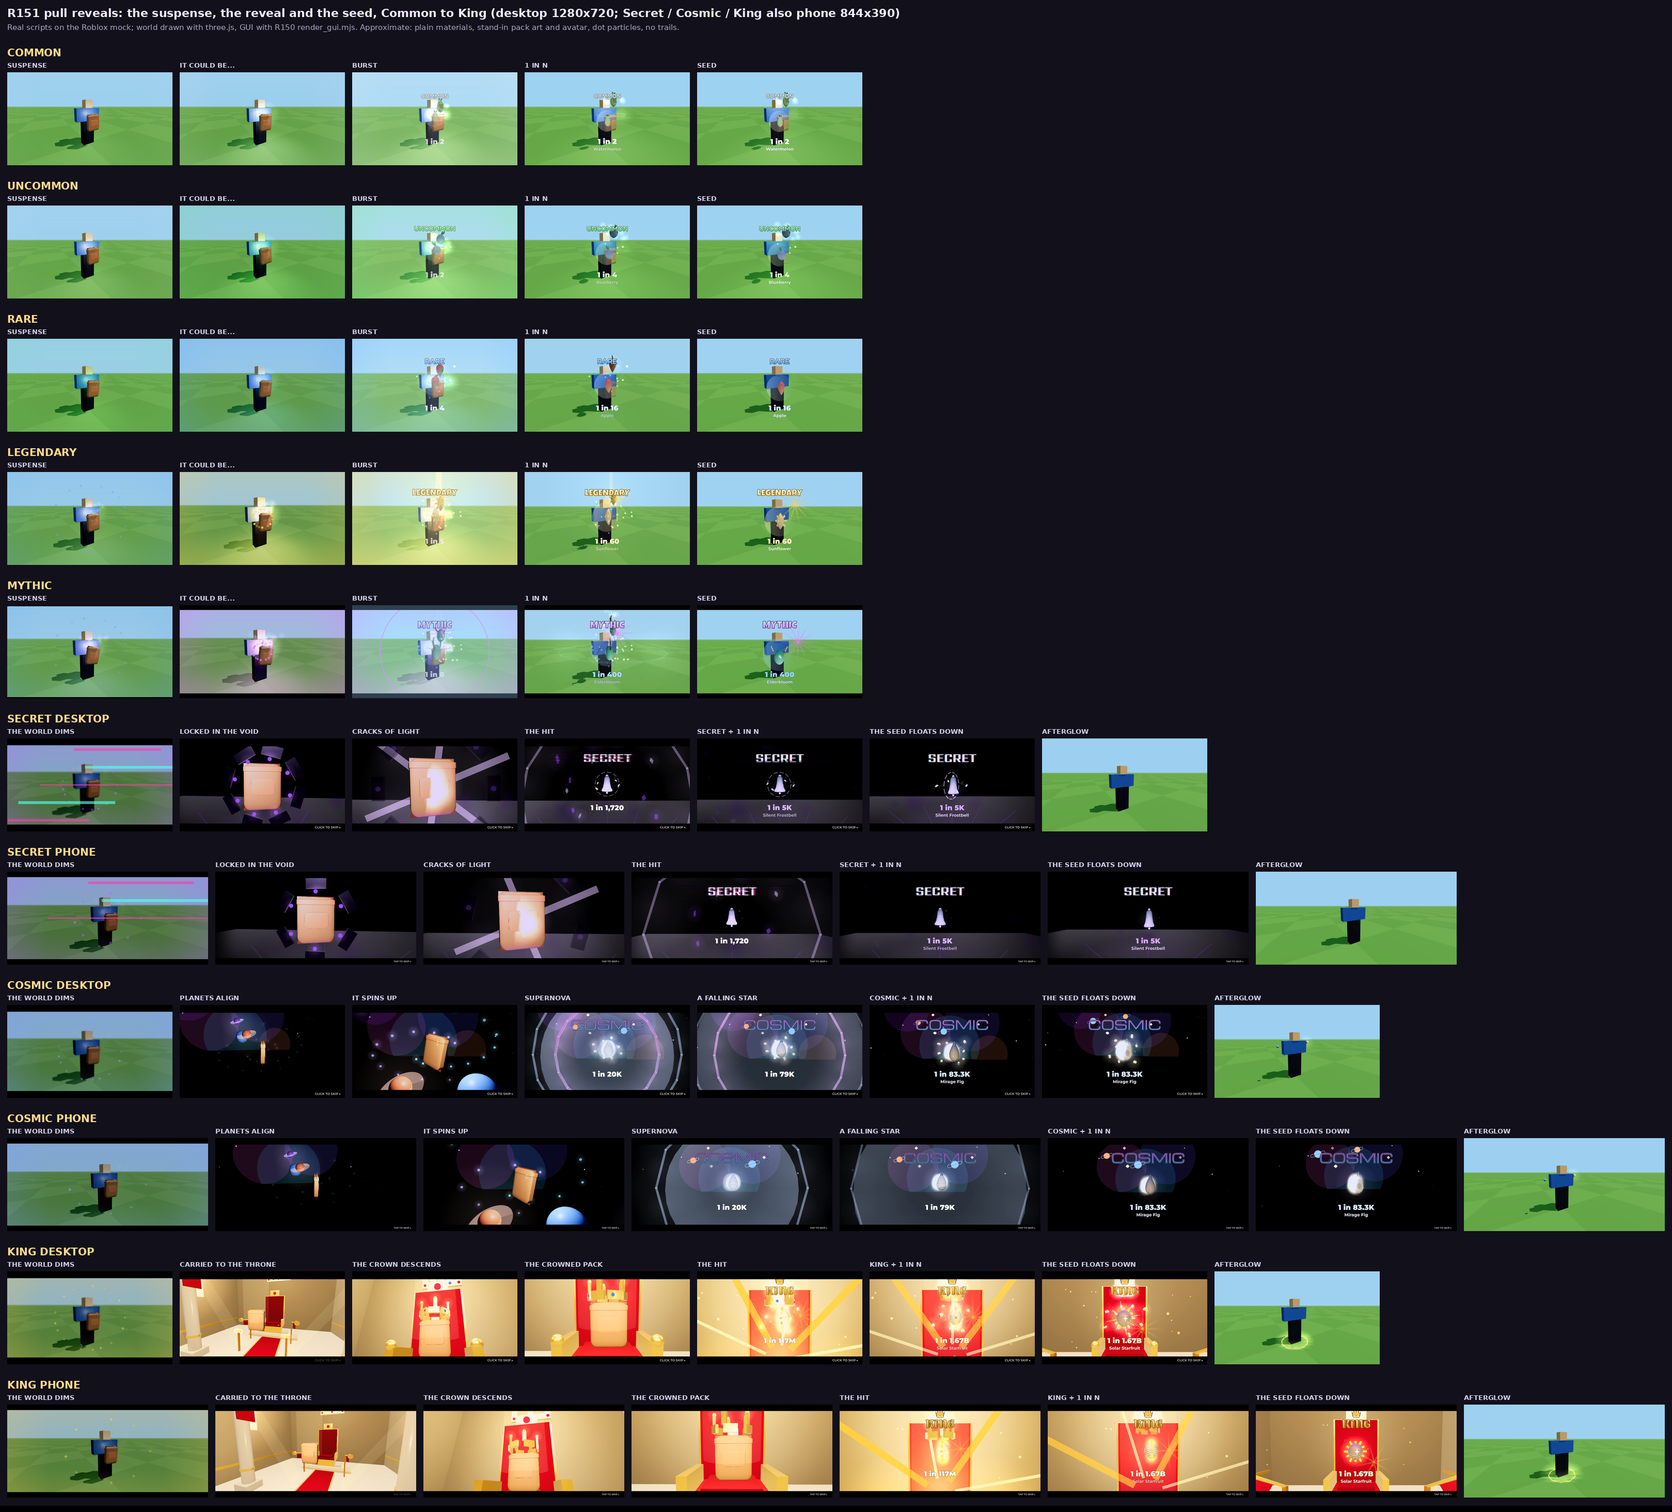
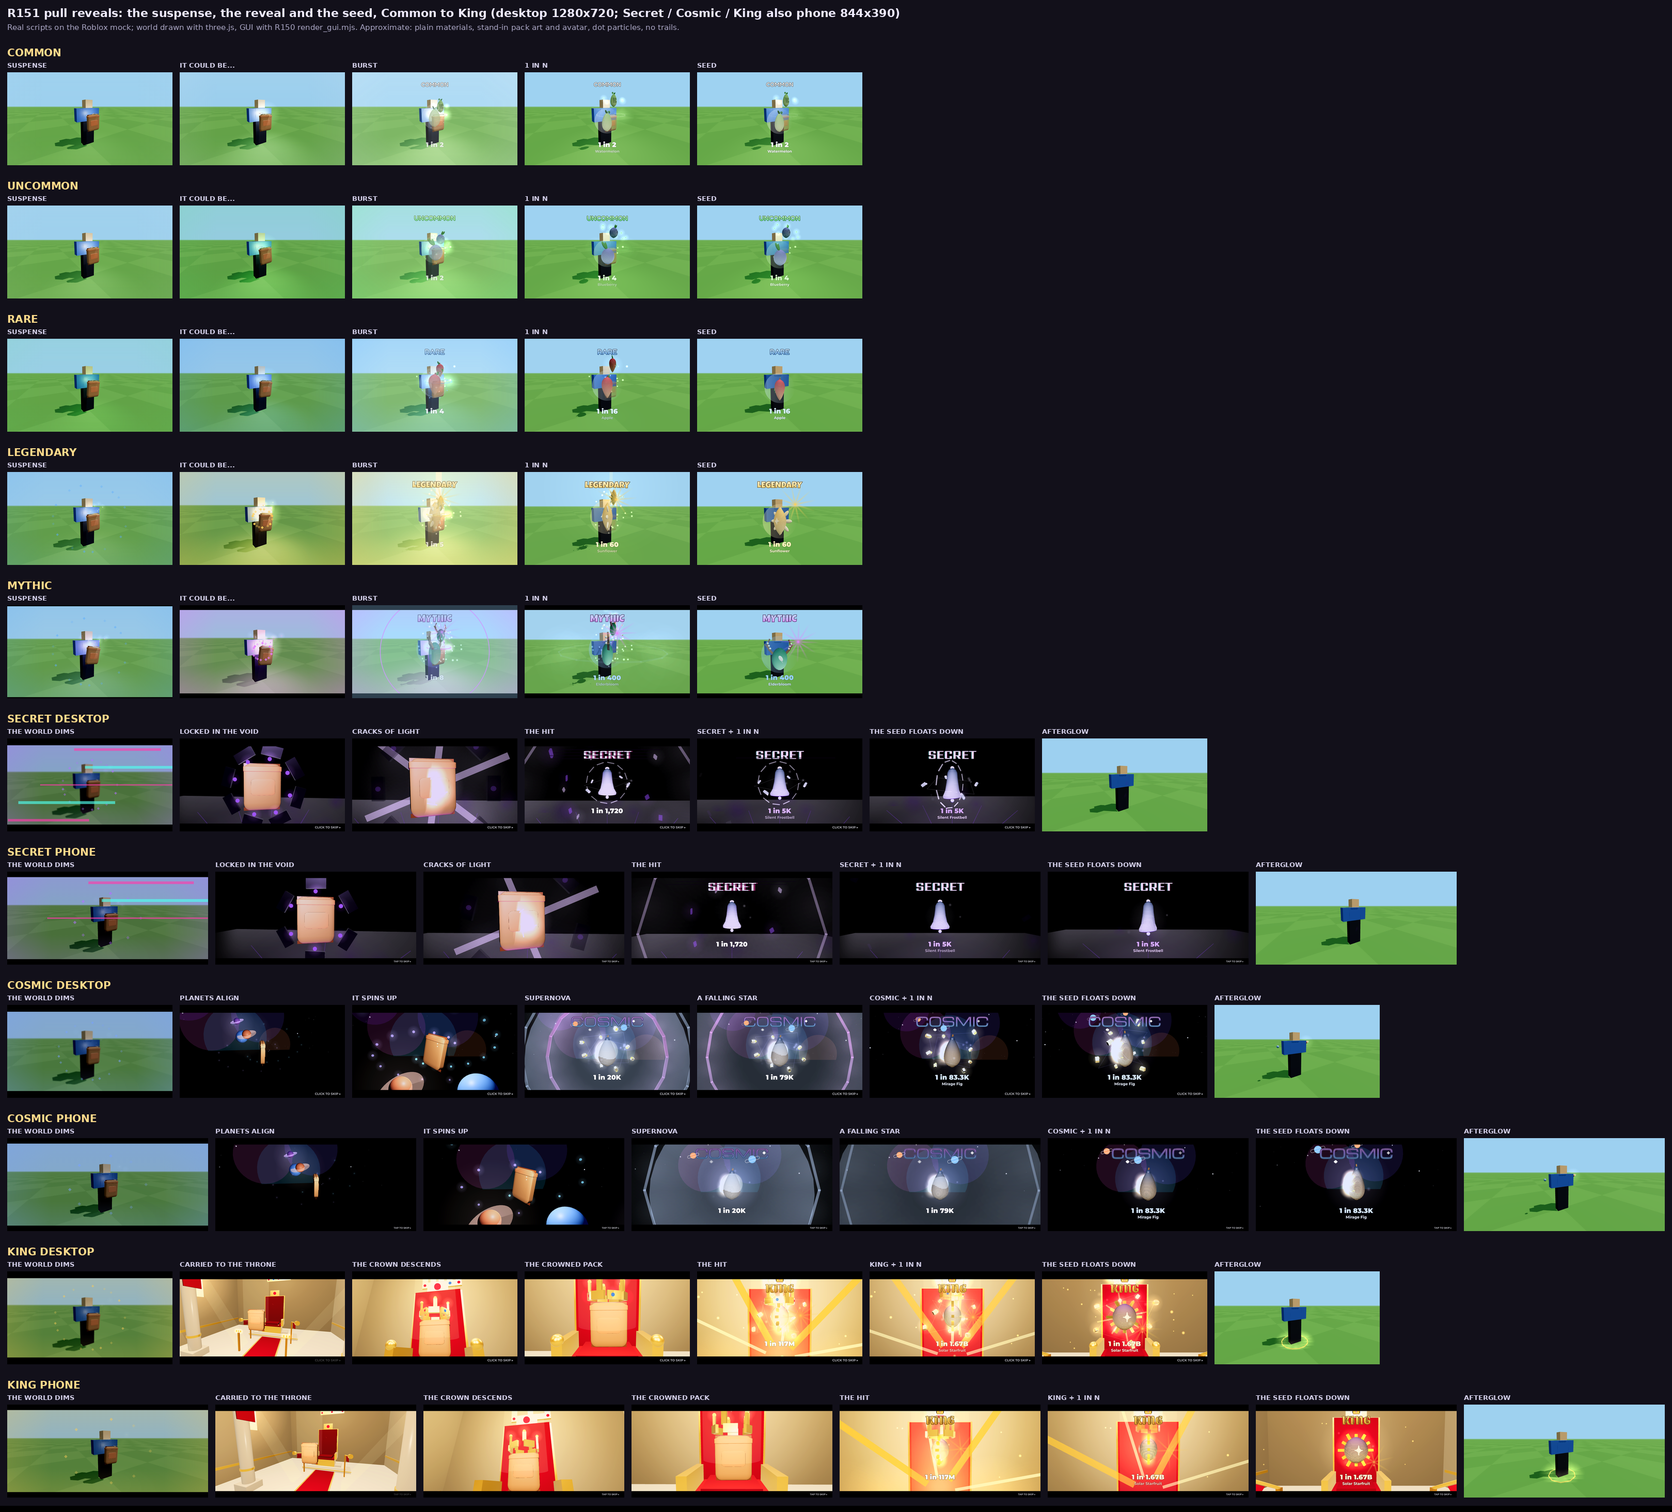
R151 reveals: Secret glitch + vault sounds; the seed fills the end shots
Claude-Session: https://claude.ai/code/session_01Ac4FxUwwkEJHAEFYr1TRJi

diff --git a/docs/proposals/R151/rare_pull.md b/docs/proposals/R151/rare_pull.md
@@ -6,7 +6,8 @@ Owner, verbatim:
 3. "The seed should be the main focus in these scenes where it ends with the seed floating down and what not."
 4. "Actually rework for the scenes, we can just have the seed pack and seed be animated differently for king, cosmic, secret. Don't need the avatar, as the seed pack and seed have to go hand in hand."
 5. "We can also rework the legendary, uncommon and common and mythic short animations to the same quality so there isn't a gigantic quality gap in there, also for the pack animations add more suspense to opening the pack in general."
-6. Sounds: the owner uploaded 15 sounds (8 shared, 3 King, 4 Cosmic); only the Secret tier slots wait for uploads.
+6. Sounds: the owner uploaded 17 sounds (8 shared, 3 King, 4 Cosmic, 2 Secret); SecretDrone, SecretWhisper and Heartbeat stay on the layered fallback.
+7. Follow-up: "the SEED to be the main focus" - in the end shots the seed was small under the big title. Now the camera frames the seed itself from the hit on (see §4a).
 
 What this does, in one line: **every pull is now one escalating reveal**: the pack builds suspense (it wobbles, glows, tears a bit at a time, a rarity hint flickers through the cracks), then the seed bursts out and ends **big, centred and floating down** with the rarity word, "1 in N" and its name. Common..Mythic do it in the world plus a seed card; Secret / Cosmic / King cut to a **short story scene** where the **pack and the seed** are the stars (a void vault, deep space, a throne room).
 
@@ -63,18 +64,18 @@ Story scenes run on the opener's clock from the reveal (`RarePullRules.Scenes`);
 | t | Picture | Sound |
 |---|---|---|
 | 0.00 | world desaturates to violet-grey, letterbox slides in, motes gather, RGB glitch bars | SecretDrone (loop) |
-| 0.25 | glitch | SecretGlitch |
+| 0.25 | glitch | SecretGlitch (owner's glitch, a .4 s burst) |
 | 0.45 → 0.70 | glitch tear, fade to black → the void (black glass floor, violet seams, fog); the pack hangs in the dark, rim-lit | SecretWhisper (loop) |
-| 1.30 / 1.90 | the pack glitches (jitter, glitch bars) | SecretGlitch ×2 (the 2nd lower, louder) |
+| 1.30 / 1.90 | the pack glitches (jitter, glitch bars) | SecretGlitch ×2 (.45 / .5 s bursts; the 2nd lower, louder) |
 | 1.50 | skip allowed | |
 | 2.40 | a ring of 8 dark lock plates with violet bolts closes round the pack and turns: click, click, click | PackShake ×2; Riser starts |
-| 2.90 | the bolts pull back, cracks of light grow over the pack, light spills from its edges | SecretVault |
+| 2.90 | the bolts pull back, cracks of light grow over the pack, light spills from its edges | SecretVault (owner's heavy door unlocking, faded out by the silence) |
 | 3.05 → 3.45 | the pack shudders, the cracks blaze | SuckIn, PackShake |
 | **3.45** | **silence** (the screen dips) | everything stops |
 | **3.55** | **the pack bursts in violet light**: flash, shards, shockwave ring; SECRET slams in (RGB split, scanlines) | Impact + GroundImpact + PackBurst + SecretGlitch |
-| 3.55 → 3.95 | the seed rises out of the dark, big and centred, with its eclipse ring and purple wisps | Sparkle |
+| 3.55 → 3.95 | the seed rises out of the dark; the camera takes it as the hero (33% of the height, centred), with its eclipse ring and purple wisps | Sparkle |
 | 3.85 → 4.15 | "1 in N" counts up and slams | TitleSlam |
-| 4.15 → 5.10 | the seed floats down toward the camera, turning; name under "1 in N" | Sparkle |
+| 4.15 → 5.10 | the seed floats down toward the camera, turning, growing to 39% of the screen height; name under "1 in N" | Sparkle |
 | 5.10 → 5.60 | fade to black, back to the world; HUD back; purple wisps around the player (15 s) | |
 
 ### COSMIC: Supernova (deep space), Full 8.0 s / ReducedMotion 4.95 s
@@ -90,7 +91,7 @@ Story scenes run on the opener's clock from the reveal (`RarePullRules.Scenes`);
 | **4.45** | **SUPERNOVA**: flash, expanding shell, two shockwave rings; COSMIC (nebula gradient, stars, two orbiting planets) | **CosmicBoom** (the owner's underwater explosion: the big hit here instead of Impact; its tail rings under the seed) + GroundImpact + PackBurst |
 | 4.45 → 5.30 | the seed flies out of the core as a **falling star** toward the camera and resolves into the seed | CosmicWhoosh; CosmicStar (the shine rings under the seed); the bed returns, softer |
 | 4.75 → 5.05 | "1 in N" counts up and slams | TitleSlam |
-| 5.30 → 6.60 | the seed, big and centred with its orbit rings, floats down | Sparkle |
+| 5.30 → 6.60 | the seed, centred with its orbit rings, floats down and fills the shot (to 39% of the height) | Sparkle |
 | 6.60 → 7.20 | fade, back to the world; two little planets and star motes around the player (20 s) | |
 
 ### KING: the Coronation (throne room), Full 10.2 s / ReducedMotion 5.9 s
@@ -107,7 +108,7 @@ Story scenes run on the opener's clock from the reveal (`RarePullRules.Scenes`);
 | **5.55** | **the pack bursts in gold rays and confetti**, a golden shockwave across the floor; KING (gold gothic letters, a crown, turning rays) | Impact + GroundImpact + PackBurst + KingFanfare (rings under the seed until 9.4) |
 | 5.55 → 6.00 | the seed rises crowned out of the light (the crown lifts with it and fades into its own coronation ring) | Sparkle; KingChoir again, softer |
 | 5.85 → 6.15 | "1 in N" counts up and slams | TitleSlam |
-| 6.00 → 8.70 | the seed floats down the beam to the camera, big and centred | Sparkle |
+| 6.00 → 8.70 | the seed floats down the beam to the camera, centred and filling the shot (to 39% of the height) | Sparkle |
 | 8.70 → 9.40 | fade, back to the world; gold halo at the feet and rising sparkles (25 s) | |
 
 ### In place (Secret+ when the full scene is not safe), on the reveal's server clock
@@ -127,9 +128,15 @@ The hit is on the world seed's burst (SeedAt: Secret 1.35, Cosmic 2.45, King 3.3
 - **Full story scene only when safe** (`RarePullRules.Decide`): not on the track, no keeper within 60 studs or chasing the player, no ragdoll / fling, no run / queue / carried pack, no open menu (`SeedMenu`, title screen), the player's own camera (Custom / Follow), standing on the ground. Otherwise the in-place version.
 - **While the scene runs**: the camera is Scriptable only between the fade to black and Back; HUD ScreenGuis that were on are turned off (only those; `TouchGui` is never touched; new ones are caught too) and Core GUI (player list, chat, emotes, health; the Backpack only if it was on); movement held with the PlayerModule controls; Space / Enter / A / B and a tap anywhere skip (silently).
 - **Every exit path restores exactly**: the normal end, skip, death, the character being removed, being moved 8+ studs (teleport, fling), a keeper turning up (45 studs or chasing), someone replacing the camera, an error in a frame (the frame is pcall'd), the script being destroyed. Camera type, CFrame, Focus, FieldOfView and subject; the HUD guis it turned off; Core GUI it turned off; controls; its colour grade / blur live **on the Camera** and are destroyed (**Lighting is never written**); the stage is destroyed; every voice stopped; the announcement attributes cleared; no render step or binding left. A scene stopped before its hit (danger / moved / camera / error) still shows a **compact result card** so the player knows what they got.
-- **ReducedMotion**: the Calm scenes (cuts only - the camera never moves within a shot; shorter; no shake, no blur, no jitter, no swinging motes, a short seed float), no wobble on the pack (colour pulse only), no FOV push, softer flashes.
+- **ReducedMotion**: the Calm scenes (cuts only - the camera never moves within a shot; shorter; no shake, no blur, no jitter, no swinging motes; the seed rests in one still hero shot at 37% of the height), no wobble on the pack (colour pulse only), no FOV push, softer flashes.
 - **Phones / low quality / FastMode** (`ClientFxBudget.Low` or a touch-only device): lighter stages (King backdrop 122 parts instead of 189), fewer particles and ring pieces, no blur, gentler shake on phones (35%); on low quality / FastMode also no Highlight on the opening pack.
 - **No per-frame work after the end**: the director unbinds its render step; the world module disconnects its RenderStepped when its last aura ends.
+
+### 4a. The seed fills the end shots
+- From the hit on, every story scene's camera keeps its keyed angle but frames the **seed itself** (`RarePullRules.Shot`): it blends in over .3 s, follows the seed as it floats down, and sets its distance so the seed grows from **33% to 39% of the screen height** (`HeroDiameter`; the field of view is vertical, so desktop and phone get the same share). ReducedMotion: one still hero shot at 37% from the hit.
+- The seed is sized by what is **visible** (`RarePullRules.VisibleBounds`: a seed part with a Sphere / Brick / Cylinder SpecialMesh shows Size x Scale, so `GetBoundingBox` was ~1.4x too big and the old shots made the seed look small); the stage scales it to 1.8 studs of visible size. The seed card for Common..Mythic frames the same visible box, and its seed is a little bigger (.26 / .28 / .31 / .35 / .38 of the height).
+- The layout leaves the middle band to the seed: the title sits just under the letterbox (centre `bar + size/2 + .012`), "1 in N" at .78 and the name at .85; band .247-.740 of the height on desktop for King. The camera aims a little below the seed (`HeroAim`) so it sits in the middle of that band.
+- Checked: the real seed model's visible box in the end shot takes 40-44% of the height (Secret 44%, Cosmic 44%, King 40%; its box, so a little more than the seed's own outline), centred within .05, clear of the title and "1 in N".
 
 ## 5. Sound slots (`ReplicatedStorage/RarePullSounds`)
 
@@ -155,8 +162,8 @@ Each slot is `{Id, Volume, Pitch, Start, [Length, AlignEnd], [Region], [Loop]}`.
 | CosmicBoom | 75435110351652 "large underwater explosion" (6.6 s) | .5 / .088 | the supernova (Cosmic's big hit, instead of Impact; also in place), fades out on the way back | 3-6 s tail |
 | CosmicStar | 100732233406279 "shine" (4.1 s, very quiet) | 2.5 / .064 | three short twinkles as the planets lock into line; the star resolving into the seed (rings under it) | .6 s / 1-3 s |
 | SecretDrone | fallback (heartbeat + low rumble) | | Secret 0→silence | loop |
-| SecretGlitch | fallback (high ping stutter + click) | | glitches; the hit; the bonus roll's Secret result | <.4 s |
-| SecretVault | fallback (keeper slam + rumble) | | the lock opens | 1-1.5 s |
+| SecretGlitch | 84688488729958 "glitch sound effect HD" (3.10 s, quiet) | 1.3 / .242, Region .242-1.642 | .25 s, Glitch1, Glitch2 (short bursts: each cue cuts it after .4-.5 s), the hit (1.2 s, faded); the bonus roll's Secret result (the 1.4 s slice) | .4-1.2 s |
+| SecretVault | 102739931931289 "heavy door unlocking" (2.11 s, loud) | .3 / .040 | the lock opens (Unlock), faded out ON the silence | ~.55 s used |
 | SecretWhisper | fallback (wind) | | under the void | loop |
 
 To audition in Studio: `/test raresound KingFanfare` (one slot), `/test rarepull king|cosmic|secret` (a whole scene with a demo seed; also `common`..`mythic`). Nothing is granted.
@@ -172,11 +179,11 @@ New (ReplicatedStorage): `RarePullRules` (all timelines, poses, shots, safety, o
 ## 8. Checked outside Studio
 
 `sh docs/proposals/R151/tests/run_rare_pull.sh <scratch> [only|all]` (the R151 test environment `rare_env.luau` extends the R113 mock with Lighting, the Camera, Core GUI, PlayerModule controls, keepers, and Roblox-faithful `Clone` (attributes, PrimaryPart), `PivotTo` / `ScaleTo` that move every part):
-- **static**: every script in `src/` compiles; the 9 new scripts are in the manifest (sorted); the fallback designs only reuse sound ids the game already uses; the slots carry exactly the owner's 15 uploads; no reveal module touches Lighting.
-- **test_rare_rules: 439 checks** - every tier's timeline (Full / Calm / InPlace, the ladder normal / quick), the server timeline unchanged and the slide still ending with RevealDuration, escalation, the silence before every hit, skip windows, the hint (neutral → every lower tier → the real one, never higher), wobble / glow / tear, **framing**: from the hit to the end the seed stays near the centre, big, and never under the title or "1 in N" (desktop 16:9, phone 844x390, tablet 4:3), the camera stays inside the stage, the pack until the hit, the King crown on the pack, safety, odds, layout, cue sheets.
-- **test_rare_cinematic: 439 checks** - each scene played through frame by frame (HUD / Core GUI / movement held, the colour grade on the Camera with Lighting never written, the camera cut while the screen is black and back at Back, part budgets, the title on the hit, "1 in N", the skip hint, every voice on Effects, the hit / slam on the beat, no voice over itself) and then restored exactly; skip (tap, keys) before and after the hit; every exit path (error in a frame, death, character removed, moved, a keeper chasing / walking up, the camera replaced, the script destroyed) restores and, where it should, shows the result card; ReducedMotion (cuts only, no blur, shorter), phone (lighter, no blur), in place (keeper near, on the track, menu open, in the air: no camera / stage / HUD change); the Common..Mythic card (title waits for the burst, the seed, "1 in N", the push and its restore, the hint colour) and quick reveals; `/test rarepull`, `/test raresound`; the owner's uploads from their measured lead-in, AlignEnd risers ending on the silence, PlaybackRegion slices, the King fanfare / bell / choir on their beats and out of the silence, Cosmic's boom as the hit (no Impact over it, still ringing under the seed), its bed slice clear of the silence and its shine on the alignments, an id set later dropping in; Effects 0; the bonus-roll sting.
+- **static**: every script in `src/` compiles; the 9 new scripts are in the manifest (sorted); the fallback designs only reuse sound ids the game already uses; the slots carry exactly the owner's 17 uploads; no reveal module touches Lighting.
+- **test_rare_rules: 457 checks** - every tier's timeline (Full / Calm / InPlace, the ladder normal / quick), the server timeline unchanged and the slide still ending with RevealDuration, escalation, the silence before every hit, skip windows, the hint (neutral → every lower tier → the real one, never higher), wobble / glow / tear, **framing**: from the hit to the end the seed stays near the centre and never under the title or "1 in N"; from .3 s after the hit it is at least 30% of the screen height, at the end 35-45% (desktop 16:9, phone 844x390, tablet 4:3), the camera stays inside the stage, the pack until the hit, the King crown on the pack, safety, odds, layout, cue sheets.
+- **test_rare_cinematic: 452 checks** - each scene played through frame by frame (HUD / Core GUI / movement held, the colour grade on the Camera with Lighting never written, the camera cut while the screen is black and back at Back, part budgets, the title on the hit, "1 in N", the skip hint, the REAL seed model's visible box in the end shot (Secret / Cosmic / King: 30-50% of the height, centred, clear of the title and odds), every voice on Effects, the hit / slam on the beat, no voice over itself) and then restored exactly; skip (tap, keys) before and after the hit; every exit path (error in a frame, death, character removed, moved, a keeper chasing / walking up, the camera replaced, the script destroyed) restores and, where it should, shows the result card; ReducedMotion (cuts only, no blur, shorter), phone (lighter, no blur), in place (keeper near, on the track, menu open, in the air: no camera / stage / HUD change); the Common..Mythic card (title waits for the burst, the seed, "1 in N", the push and its restore, the hint colour) and quick reveals; `/test rarepull`, `/test raresound`; the owner's uploads from their measured lead-in, AlignEnd risers ending on the silence, PlaybackRegion slices, the King fanfare / bell / choir on their beats and out of the silence, Cosmic's boom as the hit (no Impact over it, still ringing under the seed), its bed slice clear of the silence and its shine on the alignments, Secret's glitch as short bursts on the glitch beats and a longer one on the hit, its vault door on the unlock and silent in the silence, an id set later dropping in; Effects 0; the bonus-roll sting.
 - **test_rare_world: 89 checks** - the real SeedPackClient + PackOpeningFeedback: for every tier the seam glows, the hint ends on the tier colour, the seed comes out at the end of the suspense and not before, the pack wobbles and tears bit by bit, the R138 pops / sounds move to the burst, PackBurst on the burst, everything released; the opener's King scene keeps the camera even with a giant pack; onlookers' pillar on the burst (not before), shockwave, the aura and its hum on Effects after the reveal, ending after 15 / 20 / 25 s with no per-frame work left, hidden far away, lighter on low quality; onlookers never get the hidden stage; Mythic keeps R136's flourish (at the new burst); the R150 onlooker impact still once.
-- **existing suites, all green**: R136 24; R137 43 + 22 + 11 + 14; R138 18 + 16 + 18, guide flow OK, layout ALL PASS, tutorial 436; R148 purchase 329 + 71 + 75; R147 Verity UI 339; R149 Verity pack 673; audio_R123 37; borders_R123 2341 (it checks every ReplicatedStorage module, so it grows with the new ones); R150 SFX 105 + 38 + 14 + 129 + 25 + fast travel 70; R150 bonus UI 188 + 372 + 37 + 5467 (gameplay files frozen).
+- **existing suites** (green except as noted): R136 24; R137 43 + 22 + 11 + 14; R138 18 + 16 + 18, guide flow OK, layout ALL PASS, tutorial 436; R148 purchase 329 + 71 + 75; R147 Verity UI 339 (since b196944, the R151 pack-models audit on origin, 10 of its checks fail: they pin EclipsePackArt / the giant-pack parts to the R146 base, which that audit changed on purpose; nothing in the reveal touches them); R149 Verity pack 673; audio_R123 37; borders_R123 2389 (it checks every ReplicatedStorage module, so it grows with the new ones); R150 SFX 105 + 38 + 14 + 129 + 25 + fast travel 70; R150 bonus UI 188 + 372 + 37 + 5467 (gameplay files frozen).
 
 Preview: `sh docs/proposals/R151/preview/run_rare_pull_preview.sh <scratch> [node_modules]` plays the real reveals on the mock (`preview_frames.luau`), renders the world / stages with three.js (`rare_pull.html`, `render_frames.mjs`), the GUI with R150's `render_gui.mjs` (patched in the scratch copy only, for the tier fonts and text gradients) and composes with Pillow (`compose.py`). **Approximate**: plain materials (no Roblox textures / Future lighting), stand-in pack art (a pouch in its paper colour) and a blocky stand-in avatar on a grass plane for the world frames, SpecialMesh seeds as spheres / blocks, particles as dots, no trails, the post grade / blur approximated in Pillow, the world camera placed in front of the player.
 
